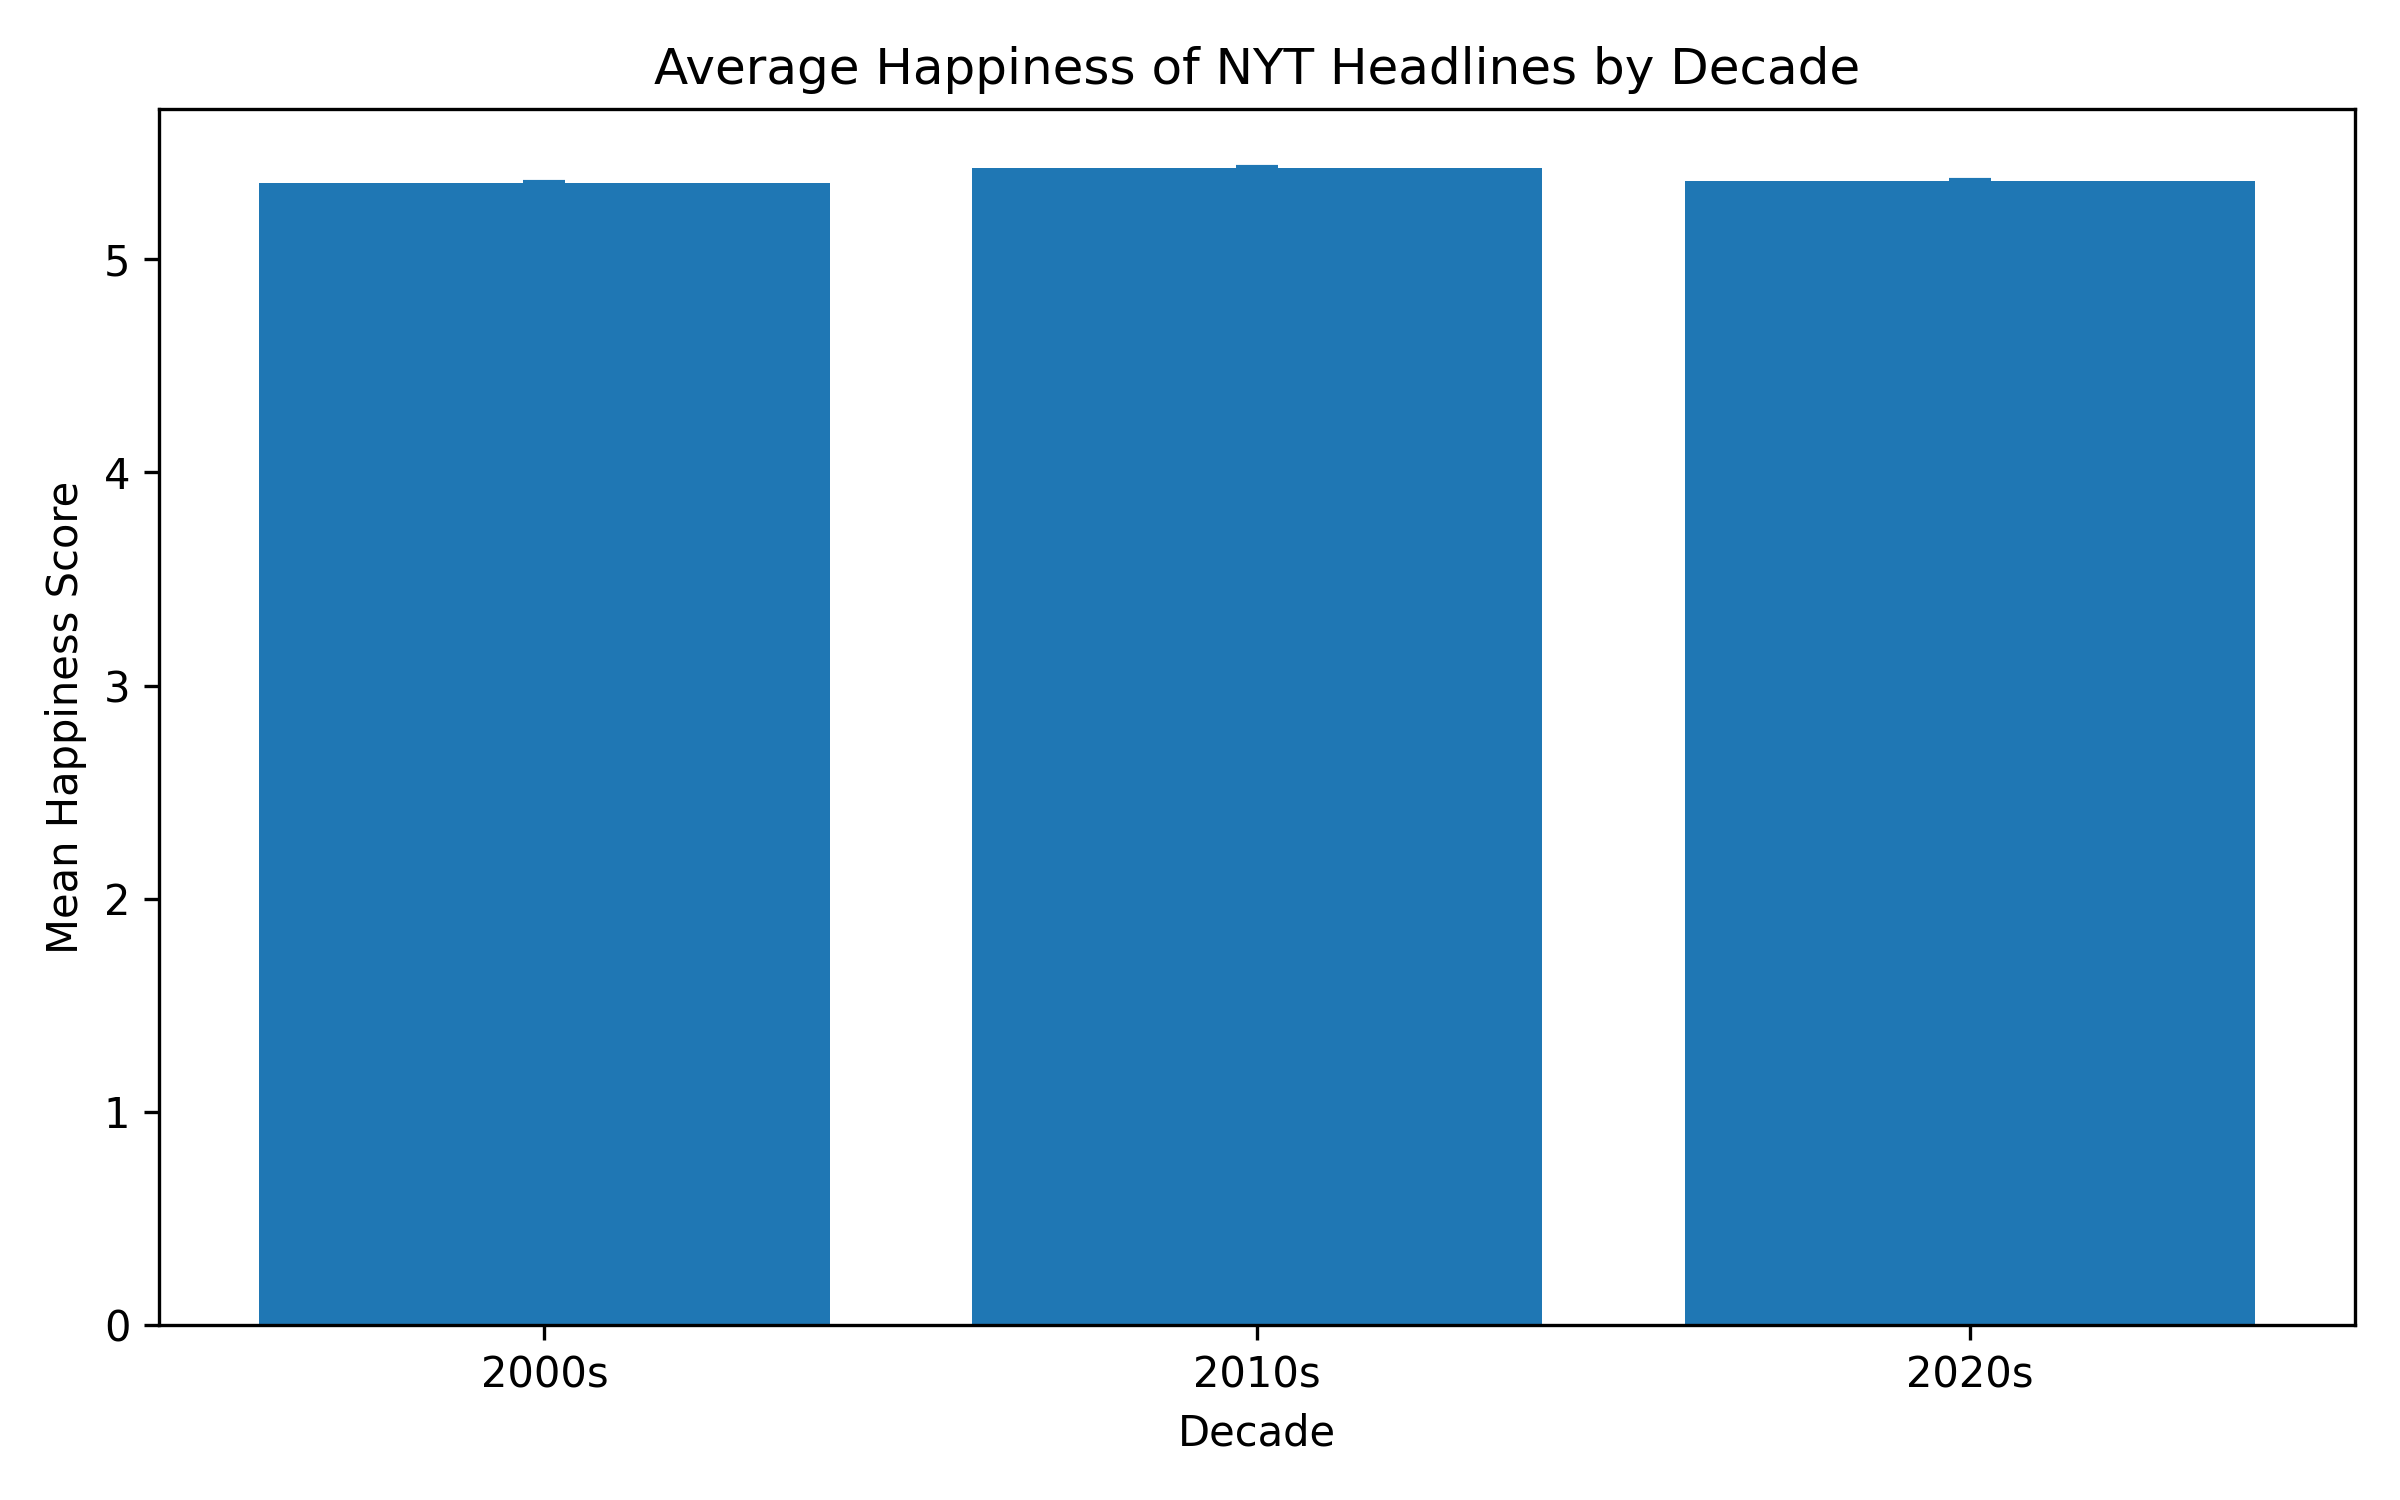
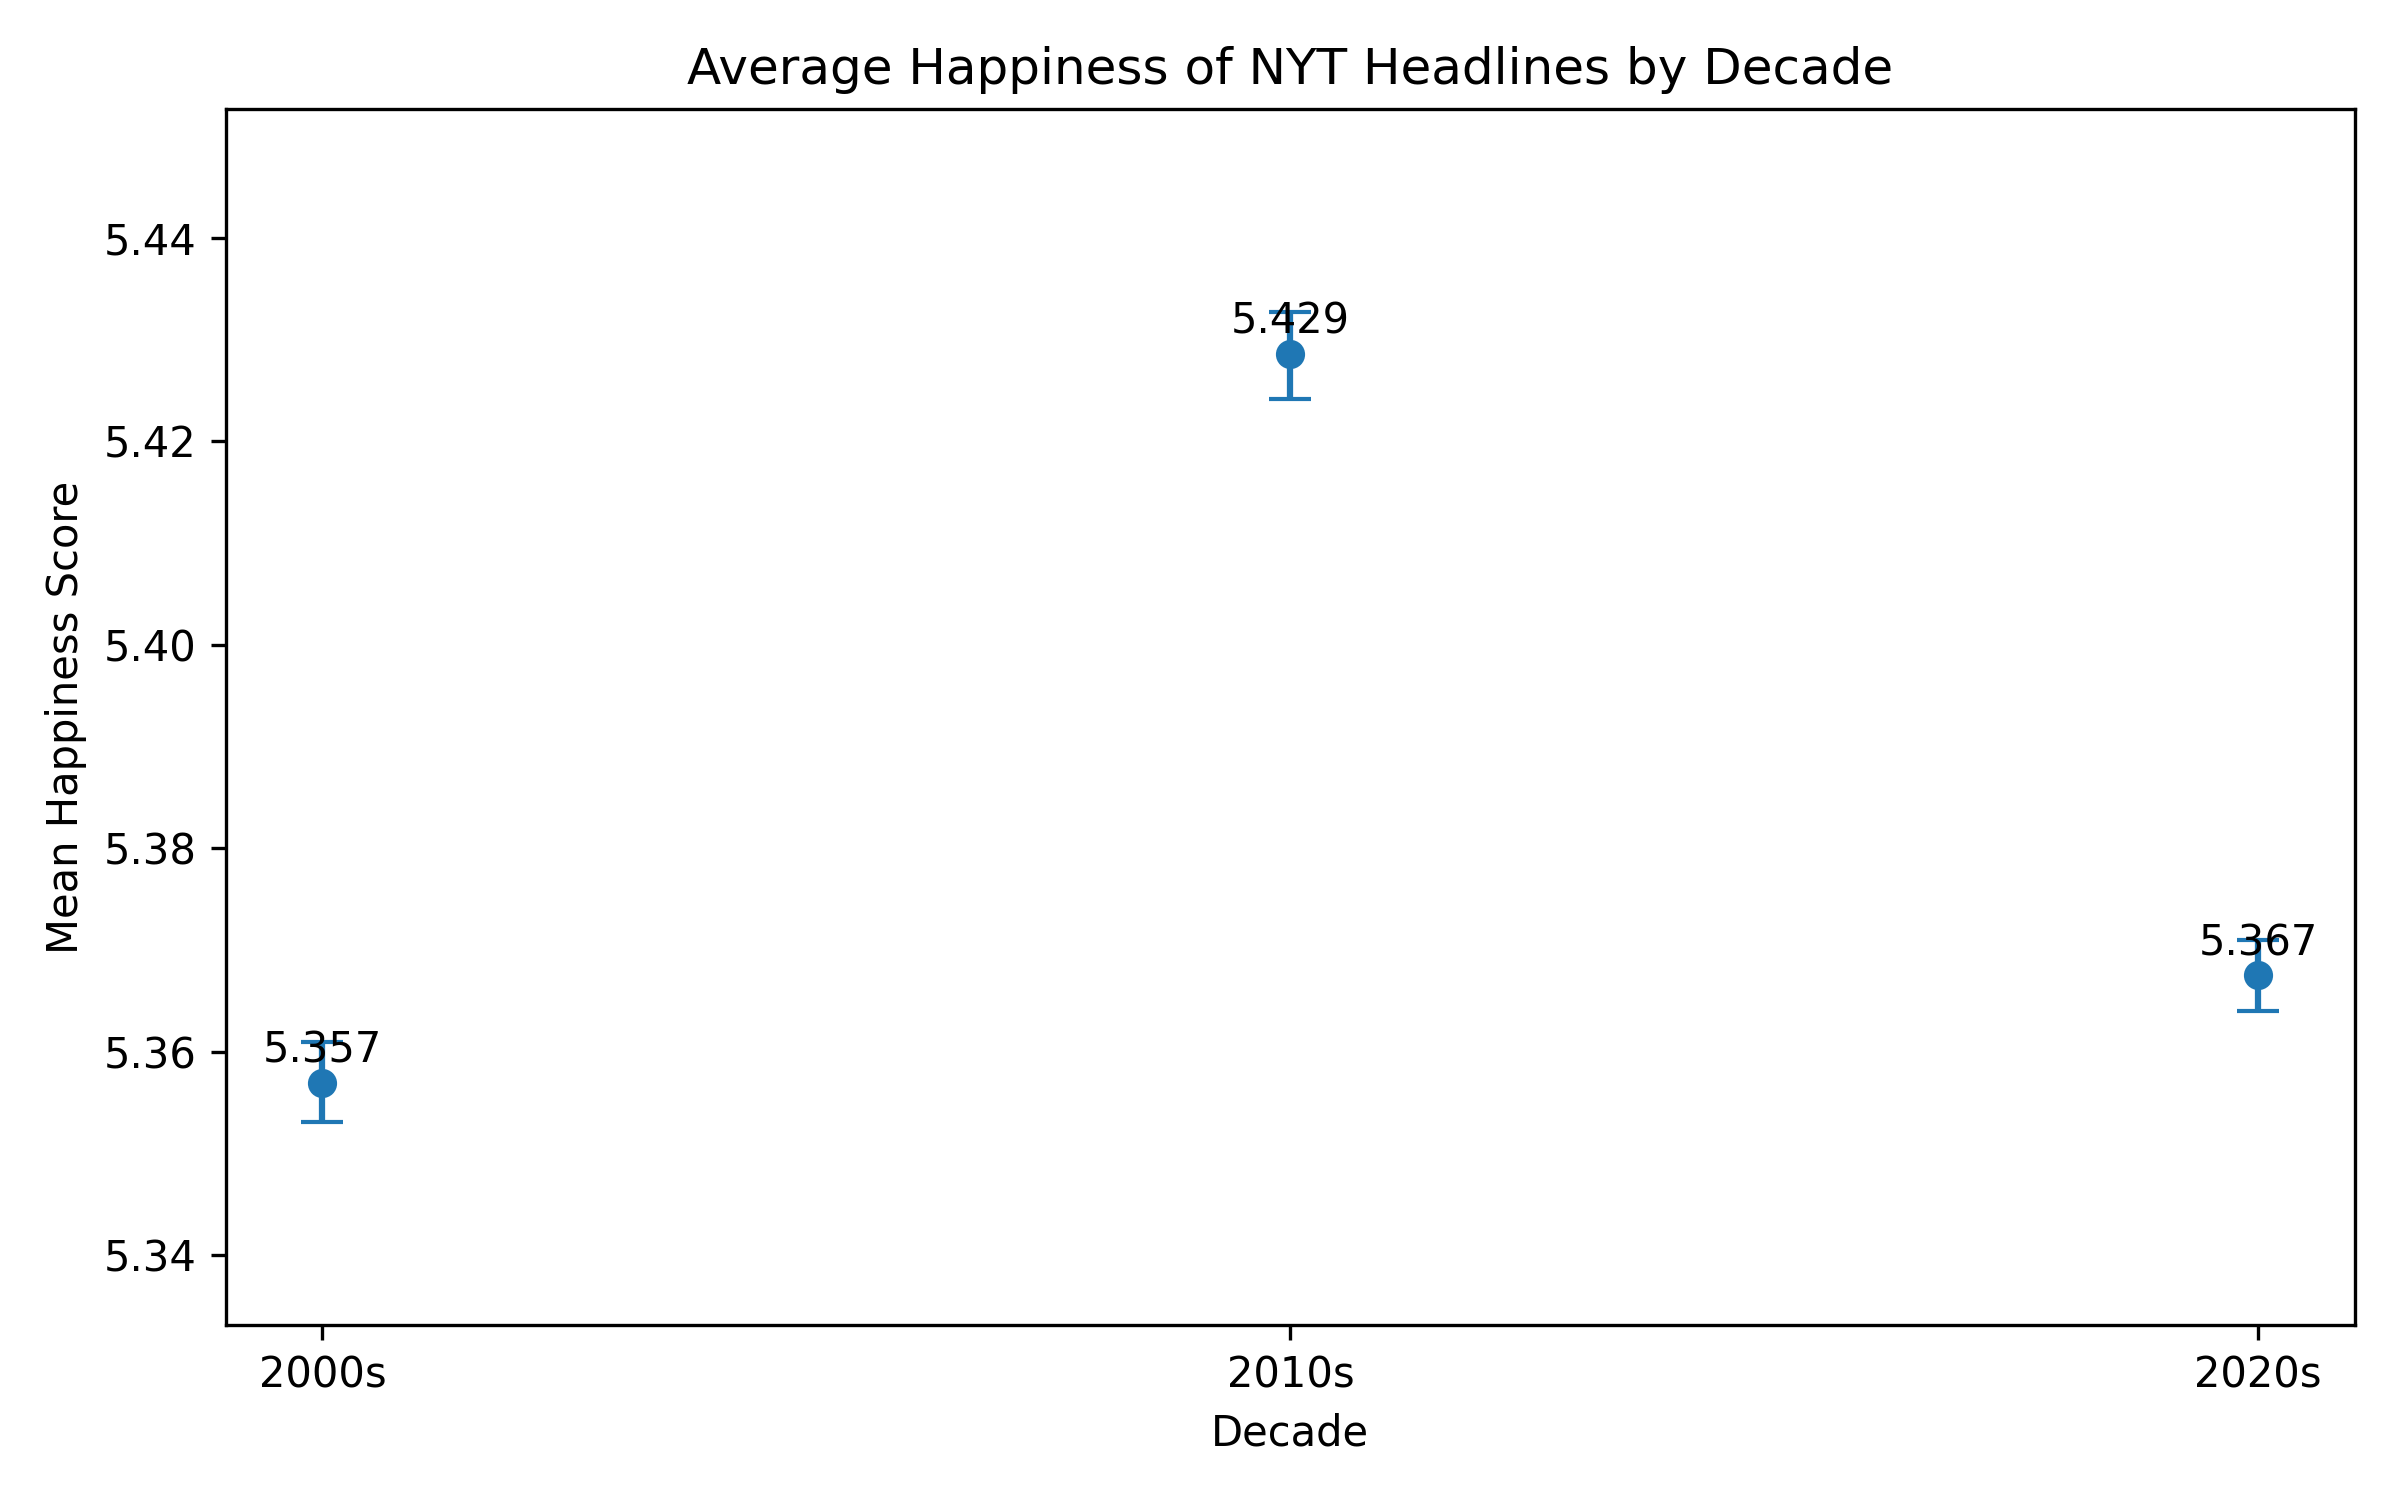
Improve decade CI visualization to highlight differences

diff --git a/src/04_stats_sampling.py b/src/04_stats_sampling.py
@@ -82,21 +82,36 @@ results_df.to_csv("tables/decade_happiness_summary.csv", index=False)
 print("Saved tables/decade_happiness_summary.csv")
 
 plt.figure(figsize=(8, 5))
+
 means = results_df["mean_happiness"]
 lower_errors = results_df["mean_happiness"] - results_df["ci_lower"]
 upper_errors = results_df["ci_upper"] - results_df["mean_happiness"]
 
-plt.bar(results_df["decade"], means)
+x = range(len(results_df))
+
 plt.errorbar(
-    results_df["decade"],
+    x,
     means,
     yerr=[lower_errors, upper_errors],
-    fmt="none",
+    fmt="o",
     capsize=5
 )
+
+plt.xticks(x, results_df["decade"])
+
+
+ymin = results_df["ci_lower"].min() - 0.02
+ymax = results_df["ci_upper"].max() + 0.02
+plt.ylim(ymin, ymax)
+
+
+for i, v in enumerate(means):
+    plt.text(i, v + 0.002, f"{v:.3f}", ha="center")
+
 plt.title("Average Happiness of NYT Headlines by Decade")
 plt.xlabel("Decade")
 plt.ylabel("Mean Happiness Score")
+
 plt.tight_layout()
 plt.savefig("figures/happiness_by_decade_ci.png", dpi=300)
 plt.close()
